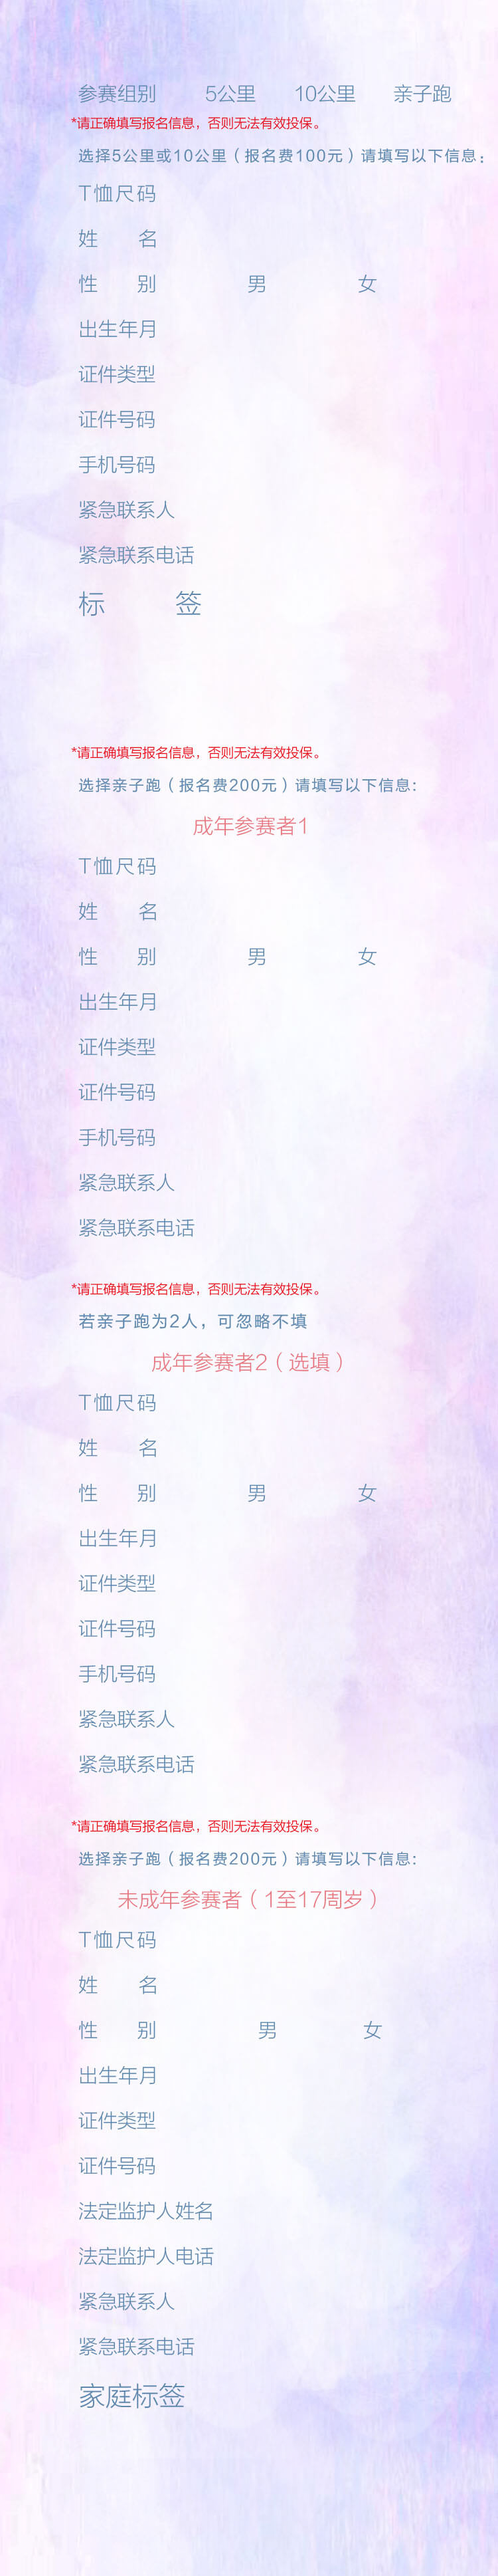
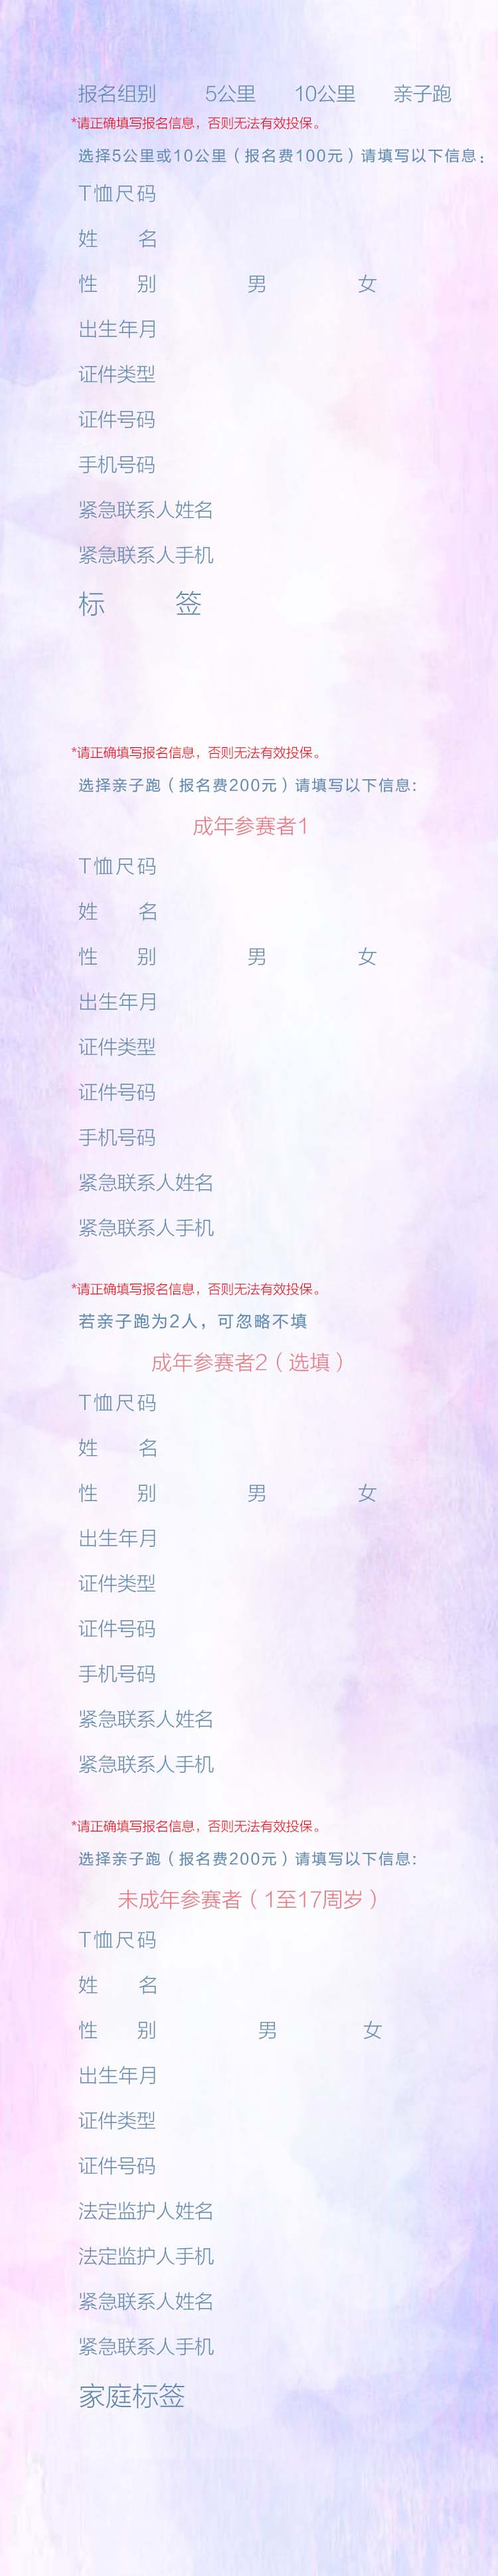
update

diff --git a/index.html b/index.html
@@ -27,21 +27,21 @@
 			            <div class="scroller">
 			                <p>本人自愿参加“茉莉跑”活动，并已认真阅读本活动须知：</p>
 			                <br />
-                            <p>1. 参赛者保证本人身体健康状况完全满足参赛要求，如患有不适合参赛的疾病（如心脑血管类疾病、癫痫等），不应参加活动；如明知患有此类疾病而仍然隐瞒并报名参加活动的，一切责任自负。主办方有权拒绝此类人员参赛。监护人应对自身及参赛者的身体状况和能力做正确及合理判断。</p>
+                            <p>1. 报名者保证本人身体健康状况完全满足活动要求，如患有不适合活动的疾病（如心脑血管类疾病、癫痫等），不应参加活动；如明知患有此类疾病而仍然隐瞒并报名参加活动的，一切责任自负。主办方有权拒绝此类人员参赛。监护人应对自身及报名者的身体状况和能力做正确及合理判断。</p>
                             <br />
                             <p>2. 由于不可抗力原因或极端天气条件造成茉莉跑活动被取消、推迟或更改，主办方无须进一步承担任何义务和作任何退款赔偿。</p>
                             <br />
-                            <p>3. 秉着公平、公正、公开的原则，主办方有权要求参赛者在必要的时候出示相关身份证明，以确认参赛者资格属实。若参赛者无法出示相关证明，将被取消参加资格；参赛者如恶意重复报名或以不正当方式参加活动，主办方将有权在无须事先通知的前提下取消其参加资格。</p>
+                            <p>3. 秉着公平、公正、公开的原则，主办方有权要求报名者在必要的时候出示相关身份证明，以确认报名者资格属实。若报名者无法出示相关证明，将被取消参加资格；报名者如恶意重复报名或以不正当方式参加活动，主办方将有权在无须事先通知的前提下取消其参加资格。</p>
                             <br />
-                            <p>4. 主办方在本次活动中收集的个人信息包括但不限于参赛者及其监护人信息等，系为购买保险、活动准备和参赛者联系之需要，请确保信息填写正确、完整；主办方亦将可能要求参赛者提供其必要个人信息的证明资料。</p>
+                            <p>4. 主办方在本次活动中收集的个人信息包括但不限于报名者及其监护人信息等，系为购买保险、活动准备和报名者联系之需要，请确保信息填写正确、完整；主办方亦将可能要求报名者提供其必要个人信息的证明资料。</p>
                             <br />
-                            <p>5. 主办方收集信息和资料将遵循合法、正当、必要之原则，其目的仅限于本活动之需要。主办方承诺不会将参赛者及其监护人的个人信息用于本活动之外进行和推广等其他用途。</p>
+                            <p>5. 主办方收集信息和资料将遵循合法、正当、必要之原则，其目的仅限于本活动之需要。主办方承诺不会将报名者及其监护人的个人信息用于本活动之外进行和推广等其他用途。</p>
                             <br />
                             <p>6. 在茉莉跑活动中，非因由主办方的疏忽造成的重大过失而引致的任何财产损失或人身生命伤害都不应向主办方及其关联公司和职员要求承担任何责任。</p>
                             <br />
-                            <p>7. 为确保茉莉跑活动及参赛者个人的安全，除了官方活动/医疗车辆外，参赛者全程不允许携带任何宠物或搭乘任何有轮代步工具。</p>
+                            <p>7. 为确保茉莉跑活动及报名者个人的安全，除了官方活动/医疗车辆外，报名者全程不允许携带任何宠物或搭乘任何有轮代步工具。</p>
                             <br />
-                            <p>8. 参赛者同意授权主办方、承办单位及其他相关合作机构选用任何有关此项活动的照片、视频及其本人肖像图（仅指本次活动的肖像）作任何永久性的用途而无需支付任何费用。</p>
+                            <p>8. 报名者同意授权主办方、承办单位及其他相关合作机构选用任何有关此项活动的照片、视频及其本人肖像图（仅指本次活动的肖像）作任何永久性的用途而无需支付任何费用。</p>
 			            </div>
 		            </div>
 		            <div class="cover-btn1"></div>
@@ -59,21 +59,21 @@
 			            <div class="scroller">
 			                <p>本人自愿参加“茉莉跑”活动，并已认真阅读本活动须知：</p>
 			                <br />
-                            <p>1. 参赛者保证本人身体健康状况完全满足参赛要求，如患有不适合参赛的疾病（如心脑血管类疾病、癫痫等），不应参加活动；如明知患有此类疾病而仍然隐瞒并报名参加活动的，一切责任自负。主办方有权拒绝此类人员参赛。监护人应对自身及参赛者的身体状况和能力做正确及合理判断。</p>
+                            <p>1. 报名者保证本人身体健康状况完全满足活动要求，如患有不适合活动的疾病（如心脑血管类疾病、癫痫等），不应参加活动；如明知患有此类疾病而仍然隐瞒并报名参加活动的，一切责任自负。主办方有权拒绝此类人员参赛。监护人应对自身及报名者的身体状况和能力做正确及合理判断。</p>
                             <br />
                             <p>2. 由于不可抗力原因或极端天气条件造成茉莉跑活动被取消、推迟或更改，主办方无须进一步承担任何义务和作任何退款赔偿。</p>
                             <br />
-                            <p>3. 秉着公平、公正、公开的原则，主办方有权要求参赛者在必要的时候出示相关身份证明，以确认参赛者资格属实。若参赛者无法出示相关证明，将被取消参加资格；参赛者如恶意重复报名或以不正当方式参加活动，主办方将有权在无须事先通知的前提下取消其参加资格。</p>
+                            <p>3. 秉着公平、公正、公开的原则，主办方有权要求报名者在必要的时候出示相关身份证明，以确认报名者资格属实。若报名者无法出示相关证明，将被取消参加资格；报名者如恶意重复报名或以不正当方式参加活动，主办方将有权在无须事先通知的前提下取消其参加资格。</p>
                             <br />
-                            <p>4. 主办方在本次活动中收集的个人信息包括但不限于参赛者及其监护人信息等，系为购买保险、活动准备和参赛者联系之需要，请确保信息填写正确、完整；主办方亦将可能要求参赛者提供其必要个人信息的证明资料。</p>
+                            <p>4. 主办方在本次活动中收集的个人信息包括但不限于报名者及其监护人信息等，系为购买保险、活动准备和报名者联系之需要，请确保信息填写正确、完整；主办方亦将可能要求报名者提供其必要个人信息的证明资料。</p>
                             <br />
-                            <p>5. 主办方收集信息和资料将遵循合法、正当、必要之原则，其目的仅限于本活动之需要。主办方承诺不会将参赛者及其监护人的个人信息用于本活动之外进行和推广等其他用途。</p>
+                            <p>5. 主办方收集信息和资料将遵循合法、正当、必要之原则，其目的仅限于本活动之需要。主办方承诺不会将报名者及其监护人的个人信息用于本活动之外进行和推广等其他用途。</p>
                             <br />
                             <p>6. 在茉莉跑活动中，非因由主办方的疏忽造成的重大过失而引致的任何财产损失或人身生命伤害都不应向主办方及其关联公司和职员要求承担任何责任。</p>
                             <br />
-                            <p>7. 为确保茉莉跑活动及参赛者个人的安全，除了官方活动/医疗车辆外，参赛者全程不允许携带任何宠物或搭乘任何有轮代步工具。</p>
+                            <p>7. 为确保茉莉跑活动及报名者个人的安全，除了官方活动/医疗车辆外，报名者全程不允许携带任何宠物或搭乘任何有轮代步工具。</p>
                             <br />
-                            <p>8. 参赛者同意授权主办方、承办单位及其他相关合作机构选用任何有关此项活动的照片、视频及其本人肖像图（仅指本次活动的肖像）作任何永久性的用途而无需支付任何费用。</p>
+                            <p>8. 报名者同意授权主办方、承办单位及其他相关合作机构选用任何有关此项活动的照片、视频及其本人肖像图（仅指本次活动的肖像）作任何永久性的用途而无需支付任何费用。</p>
 			            </div>
 		            </div>
 		            <div class="cover2-btn1"></div>

diff --git a/js/index.js b/js/index.js
@@ -950,7 +950,7 @@ app.p5.getUserInfobyAjax = function(data){
 	    
 	    //p3
 	    	$(".p3-group-family").attr("checked","checked");
-	    	//成年参赛者1
+	    	//成年报名者1
 	    	if(data.p1_teesize=="XS(160/82A)"){
 	        $("#size-2 option[value='XS']").prop("selected","selected");
 
@@ -1012,7 +1012,7 @@ app.p5.getUserInfobyAjax = function(data){
 	    $("#phone-2").val(''+data.p1_phone+'');
 	    $("#eperson-2").val(''+data.p1_emergency_name+'');
 	    $("#ephone-2").val(''+data.p1_emergency_phone+'');
-	    //成年参赛者2
+	    //成年报名者2
 	    if(data.p2_name != ""){
 	    	    	if(data.p2_teesize=="XS(160/82A)"){
 		        $("#size-3 option[value='XS']").prop("selected","selected");
